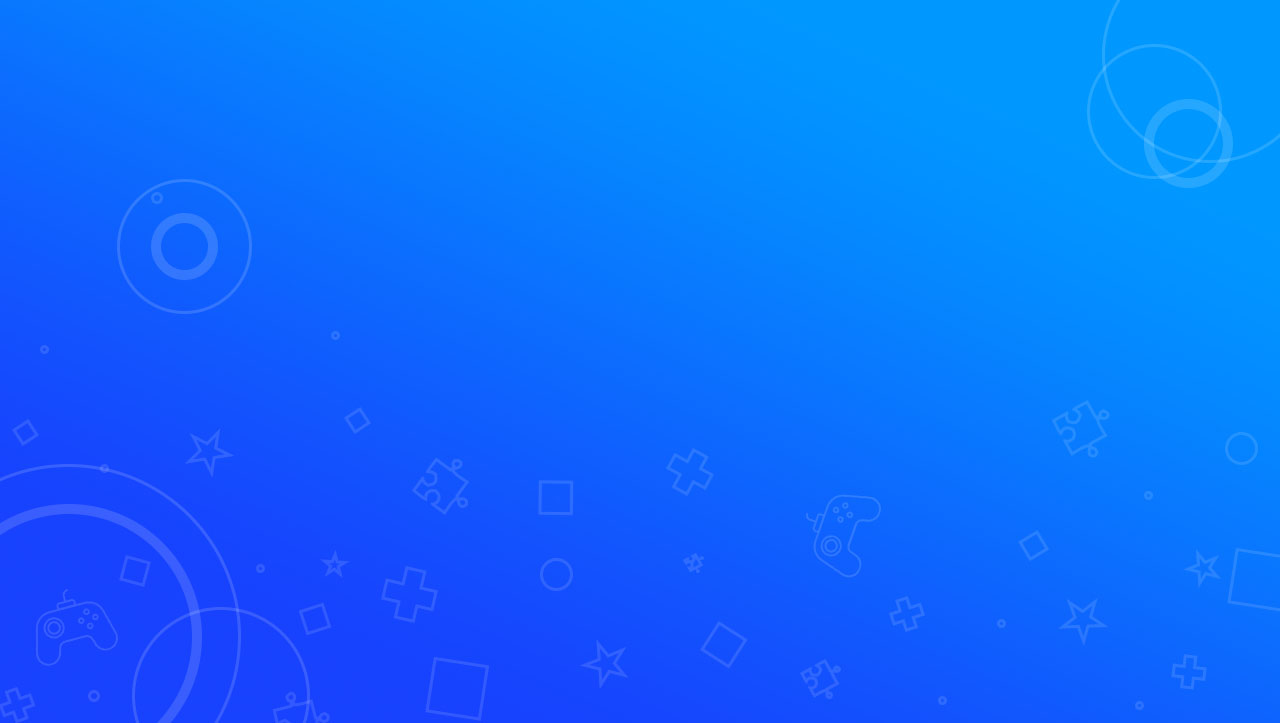
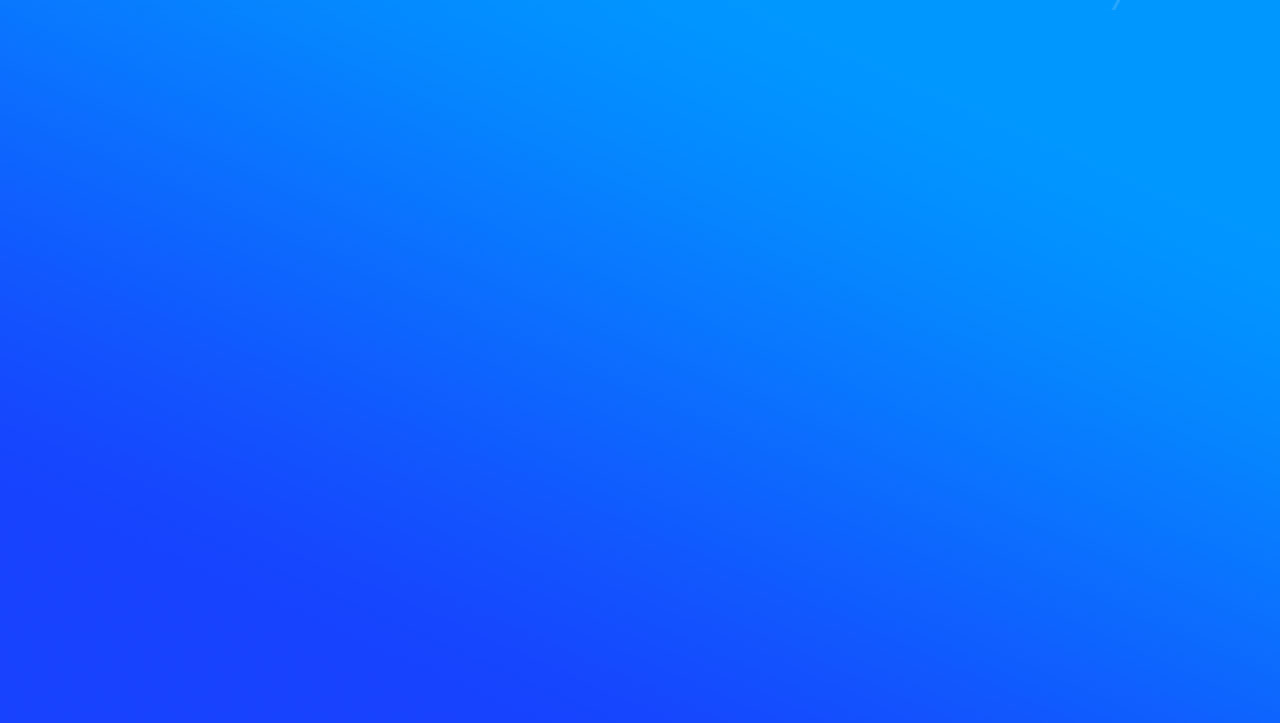
no message

diff --git a/cbsite/src/pages/HomePage.js b/cbsite/src/pages/HomePage.js
@@ -20,6 +20,12 @@ import HomeCard from '../components/HomeCard';
 import './home.css';
 // import scrollToComponent from 'react-scroll-to-component';
 // import scrollIntoView from 'scroll-into-view-if-needed'
+import animeicon1 from "../resource/icon1.png";
+import animeicon2 from "../resource/icon2.png";
+import animeicon3 from "../resource/icon3.png";
+import animeicon4 from "../resource/icon4.png";
+import animeicon5 from "../resource/icon5.png";
+import animeicon6 from "../resource/icon6.png";
 
 const styles = theme => ({
   section1: {
@@ -167,18 +173,33 @@ const styles = theme => ({
   	marginBottom: '50px'
   },
 })
+// const listdata = [0,0,0,0,0,0,0,0,0,0,0,0,0,0,0,0,0,0,0,0,0,0,0,0,0,0,0,0,0,0,]
 
 class HomePage extends Component {
   constructor() {
     super()
     this.state = {
-    	open: false,
-        value: 0
+    	listdata: []
     }
   }
 
   componentWillMount() {
     // document.body.style.overflow='hidden';
+    var listdata = [];
+    for (var i = 30; i >= 0; i--) {
+        const randx = Math.ceil(Math.random()*100);
+        const randy = Math.ceil(Math.random()*50);
+        const randimg = Math.floor(Math.random()*3.9)+1;
+        const randicon = Math.floor(Math.random()*5.9);
+        const icons = [animeicon1,animeicon2,animeicon3,animeicon4,animeicon5,animeicon6];
+        const randscale = Math.random()*0.5+0.5;
+        const randrotate = Math.random()*180-90;
+        const time = Math.random()*2+8;
+        const randmove = Math.floor(Math.random()*3.9);
+        const moves = ['movea','moveb','movec','moved'];
+        listdata.push({'move':moves[randmove],'time':time,'randx':randx,'randy':randy,'classname':'img'+randimg,'icontype':icons[randicon],'scale':randscale,'rotate':randrotate});
+    }
+    this.setState({ listdata });
   }
 
   onWheel(e) {
@@ -199,6 +220,24 @@ class HomePage extends Component {
     const {classes} = this.props;
     return (
       <div className="bk">
+      <div className="bk2"> 
+        {this.state.listdata.map((data,reactid) => ( 
+          <div style={{
+                position: 'absolute',
+                bottom:data.randy+'%',
+                left: data.randx+'%',
+                Transform: 'rotate('+data.rotate+'deg) scale('+data.scale+')',
+                WebkitTransform: 'rotate('+data.rotate+'deg) scale('+data.scale+')',
+                opacity: 0.2
+              }} key={reactid}>
+            <img style={{position: 'absolute',
+                top:'0px',
+                left: '0px',
+                animation: data.time+'s '+data.move+' alternate infinite linear'}} 
+                src={data.icontype} alt="iconimg" />
+          </div>
+        ))}
+      </div>
 
       <section className={classes.section1}>
         <div>

diff --git a/cbsite/src/pages/home.css b/cbsite/src/pages/home.css
@@ -59,6 +59,20 @@ filter: alpha(opacity=100,finishopacity=0,style=2);
 
 
 .bk::before {
+/*    content: '';
+    position: fixed; 
+    width: 100%;
+    height: 100%;
+    top: 0;
+    left: 0;
+    background-color: white;
+    background: url(../resource/homebk3.jpg) no-repeat center center;
+    background-size: cover; 
+    will-change: transform; 
+    z-index: -10;*/
+}
+
+.bk2 {
     content: '';
     position: fixed; 
     width: 100%;
@@ -69,10 +83,65 @@ filter: alpha(opacity=100,finishopacity=0,style=2);
     background: url(../resource/homebk3.jpg) no-repeat center center;
     background-size: cover; 
     will-change: transform; 
-    z-index: -1;
-  }
+    z-index: -10;
+}
 
+@keyframes movea {
+  0% { top:0px;left: 0px; }
+  33% { top:0px;left: 30px; }
+  66% { top:30px;left: 30px; }
+  100% { top:30px;left: 0px; }
+}
 
+@keyframes moveb {
+  0% { top:0px;left: 0px; }
+  33% { top:0px;left: -30px; }
+  66% { top:-30px;left: -30px; }
+  100% { top:-30px;left: 0px; }
+}
 
+@keyframes movec {
+  0% { top:0px;left: 0px; }
+  33% { top:0px;left: -30px; }
+  66% { top:30px;left: -30px; }
+  100% { top:30px;left: 0px; }
+}
 
+@keyframes moved {
+  0% { top:0px;left: 0px; }
+  33% { top:0px;left: 30px; }
+  66% { top:-30px;left: 30px; }
+  100% { top:-30px;left: 0px; }
+}
 
+.imgdiv1 {
+    position: absolute;
+    bottom:300px;
+    left: 200px;
+-webkit-transform: rotate(30deg);   /* Safari and Chrome */
+}
+
+.img1 {
+    position: absolute;
+    top:0px;
+    left: 0px;
+    animation: 10s movea alternate infinite linear;
+}
+.img2 {
+    position: absolute;
+    top:0px;
+    left: 0px;
+    animation: 10s moveb alternate infinite linear;
+}
+.img3 {
+    position: absolute;
+    top:0px;
+    left: 0px;
+    animation: 10s movec alternate infinite linear;
+}
+.img4 {
+    position: absolute;
+    top:0px;
+    left: 0px;
+    animation: 10s moved alternate infinite linear;
+}
